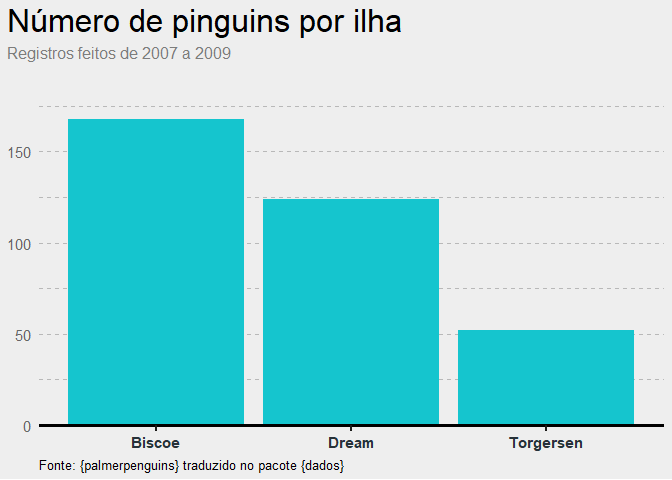
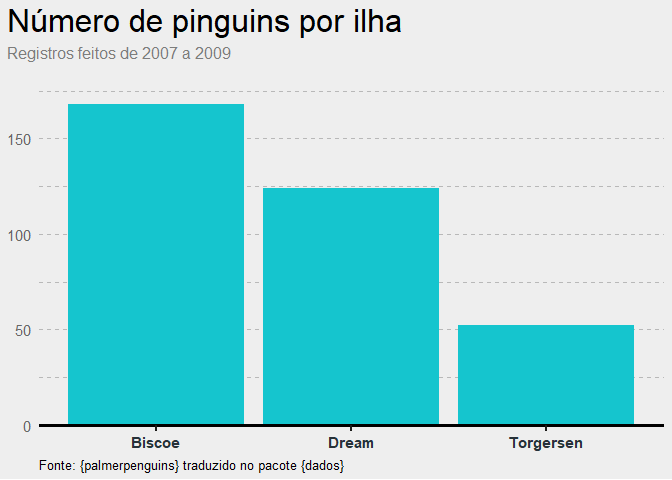
update caption

diff --git a/README.md b/README.md
@@ -53,7 +53,7 @@ p1 <- ggplot(pinguins_grupos, aes(x = ilha, y = n)) +
     subtitle = "Registros feitos de 2007 a 2009",
     caption = "Fonte: {palmerpenguins} traduzido no pacote {dados}"
   )+
-  scale_y_continuous(expand = expansion(mult = c(0,0.1)))+
+  scale_y_continuous(expand = expansion(mult = c(0,0.05)))+
   tema_poder360()
 
 p1
@@ -80,7 +80,7 @@ p2 <- ggplot(pinguins_grupos, aes(x = ilha, y = n)) +
     subtitle = "Registros feitos de 2007 a 2009",
     caption = "Fonte: {palmerpenguins} traduzido no pacote {dados}"
   )+
-  scale_y_continuous(expand = expansion(mult = c(0,0.1)))+
+  scale_y_continuous(expand = expansion(mult = c(0,0.05)))+
   tema_g1()
 
 p2
@@ -98,7 +98,7 @@ p3 <- ggplot(pinguins_grupos, aes(x = ilha, y = n)) +
     subtitle = "Registros feitos de 2007 a 2009",
     caption = "Fonte: {palmerpenguins} traduzido no pacote {dados}"
   )+
-  scale_y_continuous(expand = expansion(mult = c(0,0.1)))+
+  scale_y_continuous(expand = expansion(mult = c(0,0.05)))+
   tema_nexo()
 
 p3
